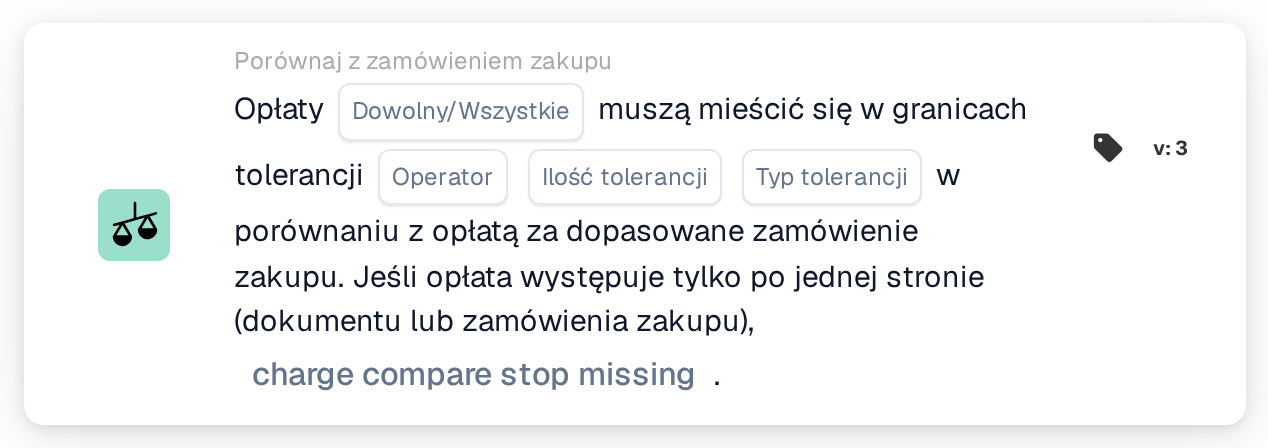
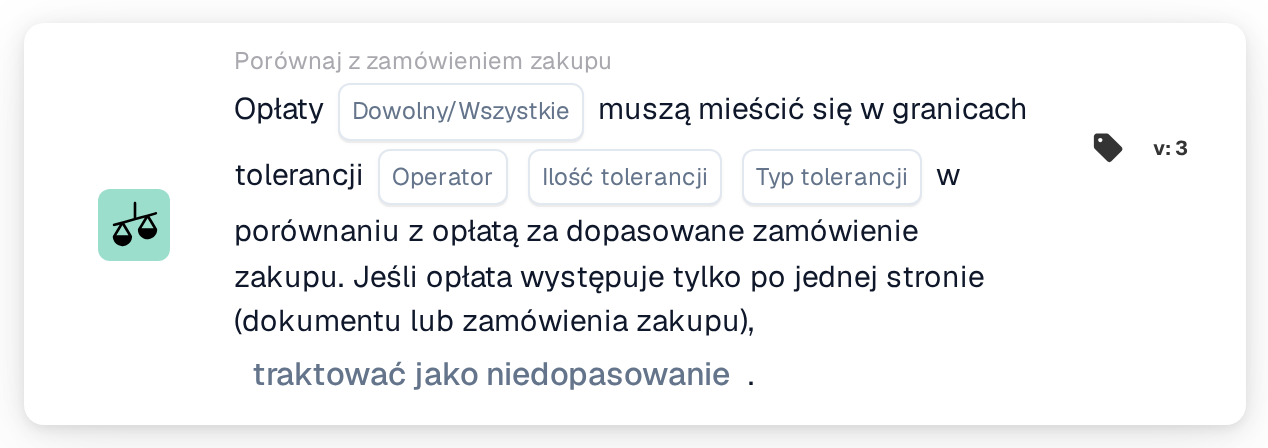
[Documentation_Workflow_Cards] [DRFS-871] add compare charges to po v4

Changed region(s): [[0.1845, 0.8125, 0.5844, 0.875]]

diff --git a/public_docs/administration-and-setup/workflow/and/compare-with-purchase-order/any-all-charges.md b/public_docs/administration-and-setup/workflow/and/compare-with-purchase-order/any-all-charges.md
@@ -4,13 +4,15 @@
 
 <figure><img src="../../../../.gitbook/assets/workflow_card_condition_compare_charges_to_po_v3-pl-pl.png" alt="Wszelkie/Wszystkie opłaty, Wersja 3" width="634"><figcaption><p>Wersja 3</p></figcaption></figure>
 
+<figure><img src="../../../../.gitbook/assets/workflow_card_condition_compare_charges_to_po_v4-pl-pl.png" alt="Karta Workflow Porównaj z zamówieniem zakupu: Opłaty Dowolny/Wszystkie muszą mieścić się w granicach tolerancji Operator Ilość tolerancji Typ tolerancji w porównaniu z opłatą za dopasowane zamówienie zakupu; opłata 0,00 również jest porównywana. Jeśli opłata występuje tylko po jednej stronie (dokumentu lub zamówienia zakupu), Zachowanie przy brakujących danych, Wersja 4" width="634"><figcaption><p>Wersja 4</p></figcaption></figure>
+
 ## **Cel:**
 
-Ta karta przepływu pracy porównuje opłaty dodatkowe dokumentu z opłatami dodatkowymi dopasowanego zamówienia zakupu, w ramach określonej tolerancji. Odpowiada na jedno pytanie: czy dokument i zamówienie zakupu są zgodne co do opłat dodatkowych? Porównywana jest każda opłata, którą dopasowanie zamówienia zakupu sparowało, dlatego na karcie nie trzeba podawać żadnej nazwy pola.
+Ta karta Workflow porównuje opłaty dodatkowe dokumentu z opłatami dodatkowymi dopasowanego zamówienia zakupu, w ramach określonej tolerancji. Odpowiada na jedno pytanie: czy dokument i zamówienie zakupu są zgodne co do opłat dodatkowych? Porównywana jest każda opłata, którą dopasowanie zamówienia zakupu sparowało, dlatego na karcie nie trzeba podawać żadnej nazwy pola.
 
 Ta karta różni się od **Porównaj całkowite opłaty**, która porównuje jedno wskazane pole dokumentu z pojedynczą opłatą określoną przez Charge ID. Użyj tej karty, gdy wszystkie sparowane opłaty dokumentu mają zostać sprawdzone naraz.
 
-Dopasowanie zamówienia zakupu musi zostać wykonane przed tą kartą. Jeśli dokument nie ma dopasowanego zamówienia zakupu, karta zatrzymuje przepływ pracy i zgłasza brakujące dane.
+Dopasowanie zamówienia zakupu musi zostać wykonane przed tą kartą. Jeśli dokument nie ma dopasowanego zamówienia zakupu, karta zatrzymuje Workflow i zgłasza brakujące dane.
 
 ## **Elementy karty:**
 
@@ -31,11 +33,11 @@ Dopasowanie zamówienia zakupu musi zostać wykonane przed tą kartą. Jeśli do
    * **Opcje**:
      * **Procent**: procent opłaty zamówienia zakupu.
      * **Wartość**: kwota stała.
-5. **Zachowanie przy brakujących danych (tylko wersja 3):**
-   * **Opis**: Co zrobić, gdy opłata istnieje tylko z jednej strony, w dokumencie albo w zamówieniu zakupu, tak że nie ma odpowiednika do porównania. Opcja znajduje się na końcu zdania wersji 3.
+5. **Zachowanie przy brakujących danych (wersje 3 i 4):**
+   * **Opis**: Co zrobić, gdy opłata istnieje tylko z jednej strony, w dokumencie albo w zamówieniu zakupu, tak że nie ma odpowiednika do porównania. Opcja znajduje się na końcu zdania.
    * **Opcje**:
-     * **traktować jako niedopasowanie**: przepływ pracy zostaje zatrzymany. To ustawienie domyślne.
-     * **zignoruj to i traktuj jako dopasowanie**: przepływ pracy jest kontynuowany, jak gdyby opłata była zgodna.
+     * **traktować jako niedopasowanie**: Workflow zostaje zatrzymany. To ustawienie domyślne.
+     * **zignoruj to i traktuj jako dopasowanie**: Workflow jest kontynuowany, jak gdyby opłata była zgodna.
 
 ## **Funkcjonalność:**
 
@@ -43,42 +45,58 @@ Karta przechodzi przez następujące kroki.
 
 1. **Wymaga dopasowanego zamówienia zakupu.** Bez dopasowanego zamówienia zakupu karta zatrzymuje się natychmiast i zgłasza brakujące dane.
 2. **Odczytuje tolerancję** z **Ilość tolerancji** i **Typ tolerancji** na karcie.
-3. **Wersja 3 przypisuje każdą dopasowaną pozycję zamówienia zakupu** do jednej z czterech sytuacji, pytając wyłącznie, czy dana strona ma jakiekolwiek opłaty: opłaty po obu stronach, brak opłat po obu stronach, opłaty tylko w dokumencie albo opłaty tylko w zamówieniu zakupu. Pozycja, której nie da się powiązać z danymi zamówienia zakupu w dokumencie, jest błędem danych i karta zatrzymuje się.
+3. **Wersje 3 i 4 przypisują każdą dopasowaną pozycję zamówienia zakupu** do jednej z czterech sytuacji: opłaty po obu stronach, brak opłat po obu stronach, opłaty tylko w dokumencie albo opłaty tylko w zamówieniu zakupu. Wersja 3 pyta wyłącznie, czy dana strona ma opłatę powyżej 0,00. Wersja 4 sprawdza każdą parę opłat i liczy 0,00 jako wartość; za brakującą uznawana jest tylko opłata bez żadnej kwoty. Zobacz **Różnice między wersjami** poniżej. Pozycja, której nie da się powiązać z danymi zamówienia zakupu w dokumencie, jest błędem danych i karta zatrzymuje się.
 4. **Opłata obecna tylko po jednej stronie decyduje o całej karcie.** Gdy jedna dopasowana pozycja ma opłaty po jednej stronie i żadnych po drugiej, **Zachowanie przy brakujących danych** decyduje o wyniku i żadna opłata nie jest porównywana, również opłaty pozycji poprawnie sparowanych. Operator i tolerancja nie są brane pod uwagę.
-5. **Jeśli żadna pozycja nie ma opłat po żadnej ze stron**, obie strony są zgodne, że nie ma opłat dodatkowych. Operator **Poza** nie jest wtedy spełniony, ponieważ nic nie odbiega poza tolerancję, i przepływ pracy zostaje zatrzymany. Każdy inny operator uznaje zgodność za spełnioną i przepływ pracy jest kontynuowany. **Zachowanie przy brakujących danych** nie ma tu żadnego wpływu.
+5. **Jeśli żadna pozycja nie ma opłat po żadnej ze stron**, obie strony są zgodne, że nie ma opłat dodatkowych. Operator **Poza** nie jest wtedy spełniony, ponieważ nic nie odbiega poza tolerancję, i Workflow zostaje zatrzymany. Każdy inny operator uznaje zgodność za spełnioną i Workflow jest kontynuowany. **Zachowanie przy brakujących danych** nie ma tu żadnego wpływu.
 6. **W przeciwnym razie każda opłata jest porównywana**, kwota dokumentu z kwotą zamówienia zakupu, przy użyciu operatora i tolerancji. Kwota opłaty, która nie jest liczbą, zatrzymuje kartę z brakującymi danymi.
-7. **Porównania są zbierane i łączone jednorazowo.** Każda opłata każdej dopasowanej pozycji wchodzi do jednego zbioru wyników, który ustawienie **Dowolny/Wszystkie** redukuje do jednego wyniku karty. Zbieranie odbywa się w skali dokumentu, nie na pozycję, dlatego **Każdy** oznacza dowolną opłatę w dowolnym miejscu dokumentu. Jeśli połączony wynik jest prawdziwy, przepływ pracy jest kontynuowany, w przeciwnym razie zatrzymuje się na niespełnionym warunku.
+7. **Porównania są zbierane i łączone jednorazowo.** Każda opłata każdej dopasowanej pozycji wchodzi do jednego zbioru wyników, który ustawienie **Dowolny/Wszystkie** redukuje do jednego wyniku karty. Zbieranie odbywa się w skali dokumentu, nie na pozycję, dlatego **Każdy** oznacza dowolną opłatę w dowolnym miejscu dokumentu. Jeśli połączony wynik jest prawdziwy, Workflow jest kontynuowany, w przeciwnym razie zatrzymuje się na niespełnionym warunku.
 
 Przed skonfigurowaniem karty warto znać trzy konsekwencje.
 
 * **w z tolerancją 0 wymaga dokładnej równości.** Obie kwoty muszą być zgodne co do groszy.
 * **Opłata obecna tylko po jednej stronie ma pierwszeństwo nad wszystkim innym.** Ponieważ krok 4 wykonuje się przed jakimkolwiek porównaniem, **zignoruj to i traktuj jako dopasowanie** pomija także sprawdzenie kwot każdej poprawnie sparowanej opłaty w dokumencie. Zachowaj **traktować jako niedopasowanie**, jeśli kwoty mają być weryfikowane.
-* **traktować jako niedopasowanie zatrzymuje przepływ pracy jako błąd, a nie jako niespełniony warunek.** Wbrew brzmieniu karta zgłasza brakujące dane, co dziennik przepływu pracy i test karty pokazują na czerwono, a nie na pomarańczowo jak niespełniony warunek. Przepływ pracy zatrzymuje się w obu przypadkach.
+* **traktować jako niedopasowanie zatrzymuje Workflow jako błąd, a nie jako niespełniony warunek.** Wbrew brzmieniu karta zgłasza brakujące dane, co dziennik Workflow i test karty pokazują na czerwono, a nie na pomarańczowo jak niespełniony warunek. Workflow zatrzymuje się w obu przypadkach.
 
 ## **Instalacja i konfiguracja:**
 
-Dodaj kartę jako warunek And po dopasowaniu zamówienia zakupu. Wybierz, czy każda opłata czy dowolna opłata musi spełnić porównanie, wybierz operator **w** albo **Poza** i wprowadź ilość oraz typ tolerancji. W wersji 3 wybierz, co ma się stać, gdy opłaty występują tylko po jednej stronie.
+Dodaj kartę jako warunek And po dopasowaniu zamówienia zakupu. Wybierz, czy każda opłata czy dowolna opłata musi spełnić porównanie, wybierz operator **w** albo **Poza** i wprowadź ilość oraz typ tolerancji. W wersjach 3 i 4 wybierz, co ma się stać, gdy opłaty występują tylko po jednej stronie.
 
 Aby wypróbować konfigurację bez czekania na dokument, otwórz menu karty w Workflow Builder, wybierz **Karta testowa**, wybierz dokument, a następnie **Test na dokumencie**. Dziennik karty wymienia każdą porównaną opłatę z obiema kwotami, operatorem i użytą tolerancją, a także zapisuje, która wartość **Zachowanie przy brakujących danych** zdecydowała o wyniku, gdy opłata była obecna tylko po jednej stronie.
 
 ## **Przykładowy scenariusz:**
 
-Potwierdzenie zamówienia zawiera opłatę transportową 100,00, a dopasowana pozycja zamówienia zakupu zawiera tę samą opłatę transportową 100,00. Przy **Wszystko**, operatorze **w** i tolerancji 0 jako wartości kwoty są równe, karta jest spełniona i przepływ pracy jest kontynuowany.
+Potwierdzenie zamówienia zawiera opłatę transportową 100,00, a dopasowana pozycja zamówienia zakupu zawiera tę samą opłatę transportową 100,00. Przy **Wszystko**, operatorze **w** i tolerancji 0 jako wartości kwoty są równe, karta jest spełniona i Workflow jest kontynuowany.
 
-Przy 120,00 na potwierdzeniu zamówienia wobec 100,00 w zamówieniu zakupu ta sama konfiguracja nie jest spełniona i przepływ pracy zatrzymuje się na niespełnionym warunku.
+Przy 120,00 na potwierdzeniu zamówienia wobec 100,00 w zamówieniu zakupu ta sama konfiguracja nie jest spełniona i Workflow zatrzymuje się na niespełnionym warunku.
 
-Jeśli ani potwierdzenie zamówienia, ani zamówienie zakupu nie zawiera żadnej opłaty, operator **w** uznaje to za zgodność i przepływ pracy jest kontynuowany, natomiast **Poza** go zatrzymuje.
+Jeśli ani potwierdzenie zamówienia, ani zamówienie zakupu nie zawiera żadnej opłaty, operator **w** uznaje to za zgodność i Workflow jest kontynuowany, natomiast **Poza** go zatrzymuje.
 
-Jeśli potwierdzenie zamówienia zawiera opłatę transportową, a zamówienie zakupu żadnej, operator przestaje mieć zastosowanie. Przy **traktować jako niedopasowanie** przepływ pracy zatrzymuje się, aby ktoś mógł sprawdzić, dlaczego opłata występuje tylko po jednej stronie.
+Jeśli potwierdzenie zamówienia zawiera opłatę transportową, a zamówienie zakupu żadnej, operator przestaje mieć zastosowanie. Przy **traktować jako niedopasowanie** Workflow zatrzymuje się, aby ktoś mógł sprawdzić, dlaczego opłata występuje tylko po jednej stronie.
+
+Jeśli potwierdzenie zamówienia wykazuje opłatę transportową 0,00, a zamówienie zakupu 204,00, wersja 4 porównuje obie kwoty i Workflow zatrzymuje się na niespełnionym warunku. Wersja 3 odczytałaby 0,00 jako „brak opłaty w dokumencie” i pozostawiła wynik ustawieniu **Zachowanie przy brakujących danych**.
 
 ## **Różnice między wersjami:**
 
-Wersję 3 stosują nowe karty. Wersja 2 pozostaje wspierana w istniejących przepływach pracy. Obie wersje porównują opłatę po opłacie i łączą wyniki w skali dokumentu ustawieniem **Dowolny/Wszystkie**, ale wersja 2 nie ma klasyfikacji przypadków, co zmienia to, co się dzieje, gdy opłaty nie są obecne po obu stronach:
+Wersję 4 stosują nowe karty. Wersje 2 i 3 pozostają wspierane w istniejących Workflows.
+
+### Wersja 4 w porównaniu z wersją 3
+
+Obie wersje mają te same ustawienia i te same kroki. Różnią się wyłącznie sposobem traktowania opłaty 0,00:
+
+* **Wersja 3 traktuje 0,00 jako brak opłaty.** Opłata dokumentu 0,00 sparowana z opłatą zamówienia zakupu 204,00 liczy się jako „zamówienie zakupu ma opłaty, dokument nie ma żadnych”, dlatego decyduje **Zachowanie przy brakujących danych**, a kwoty nigdy nie są porównywane. Przy **zignoruj to i traktuj jako dopasowanie** Workflow jest kontynuowany, mimo że kwoty się różnią.
+* **Wersja 4 porównuje 0,00 jako kwotę.** Ta sama para jest porównywana jak każda inna: 0,00 wobec 204,00 nie mieści się w tolerancji, dlatego Workflow zatrzymuje się na niespełnionym warunku. Para z 0,00 po obu stronach również jest porównywana i jest zgodna.
+* **Opłata bez kwoty pozostaje w wersji 4 brakująca.** Gdy jedna strona pary nie ma żadnej kwoty, na przykład opłaty, której zamówienie zakupu nie zawiera, decyduje **Zachowanie przy brakujących danych**, tak jak w wersji 3.
+
+Aby uzyskać to zachowanie w istniejącym Workflow, zastąp kartę w wersji 3 kartą w wersji 4 i ustaw te same wartości.
+
+### Wersja 2
+
+Wersja 2 również porównuje opłatę po opłacie i łączy wyniki w skali dokumentu ustawieniem **Dowolny/Wszystkie**, ale nie ma klasyfikacji przypadków, co zmienia to, co się dzieje, gdy opłaty nie są obecne po obu stronach:
 
 * Wersja 2 nie ma opcji **Zachowanie przy brakujących danych**. Jej zdanie kończy się po typie tolerancji.
-* Wersja 2 nie klasyfikuje dopasowanych pozycji i dlatego nie rozpoznaje opłaty istniejącej tylko po jednej stronie. Porównuje obecną kwotę z 0,00 przyjętym dla brakującej strony, a decyduje operator: **w** nie jest spełniony i przepływ pracy zatrzymuje się, **Poza** jest spełniony i przepływ pracy jest kontynuowany. Dziennik karty pokazuje porównanie z 0,00.
+* Wersja 2 nie klasyfikuje dopasowanych pozycji i dlatego nie rozpoznaje opłaty istniejącej tylko po jednej stronie. Porównuje obecną kwotę z 0,00 przyjętym dla brakującej strony, a decyduje operator: **w** nie jest spełniony i Workflow zatrzymuje się, **Poza** jest spełniony i Workflow jest kontynuowany. Dziennik karty pokazuje porównanie z 0,00.
 * Jeśli żadna ze stron nie zawiera opłat, wersja 2 nie ma czego porównywać i zgłasza brakujące dane, zamiast uznać brak po obu stronach za zgodność.
 
 ## **Wnioski:**
 
-Karta "Any / All Charges" automatyzuje sprawdzenie, że zafakturowane lub potwierdzone opłaty dodatkowe odpowiadają zamówionym opłatom dodatkowym. Ponieważ brak opłat po obu stronach liczy się w wersji 3 jako zgodność, dokumenty bez opłat dodatkowych przechodzą bez ręcznej interwencji, natomiast opłaty występujące tylko po jednej stronie są wstrzymywane do weryfikacji, o ile nie zostanie to celowo dopuszczone.
+Karta "Any / All Charges" automatyzuje sprawdzenie, że zafakturowane lub potwierdzone opłaty dodatkowe odpowiadają zamówionym opłatom dodatkowym. Ponieważ brak opłat po obu stronach liczy się w wersjach 3 i 4 jako zgodność, dokumenty bez opłat dodatkowych przechodzą bez ręcznej interwencji, natomiast opłaty występujące tylko po jednej stronie są wstrzymywane do weryfikacji, o ile nie zostanie to celowo dopuszczone.
